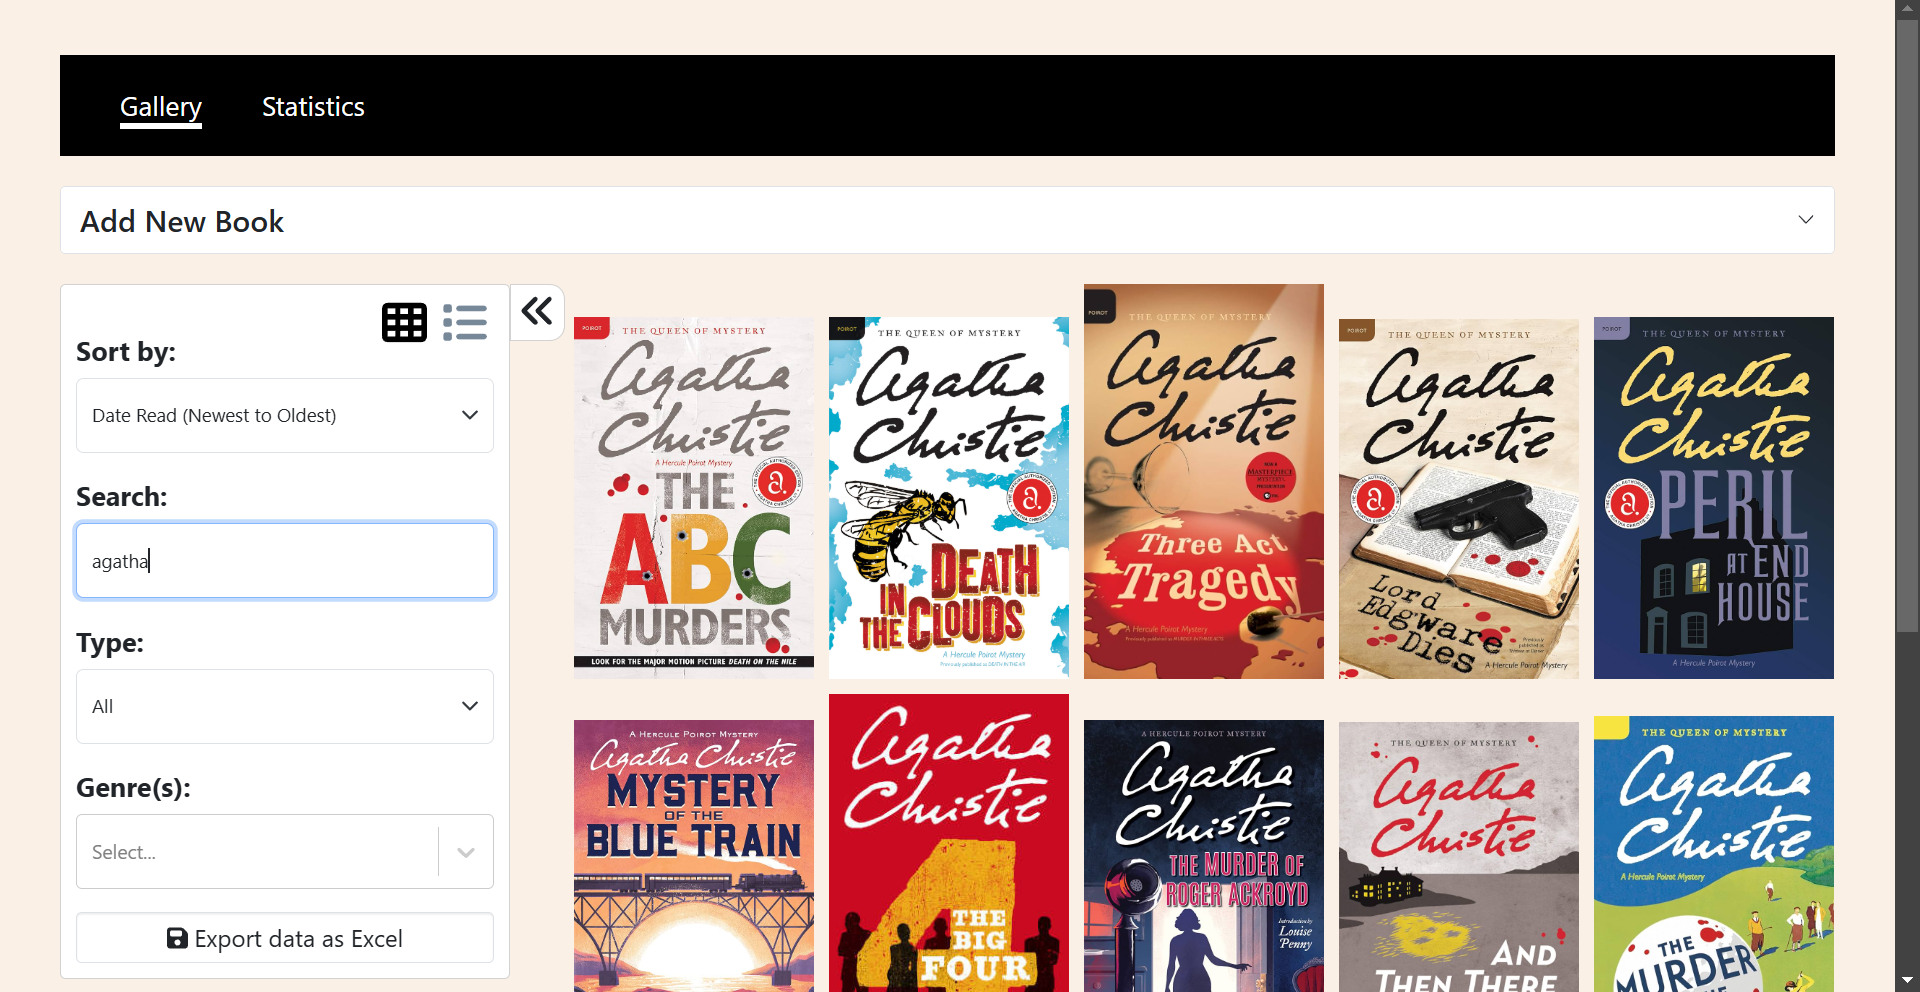
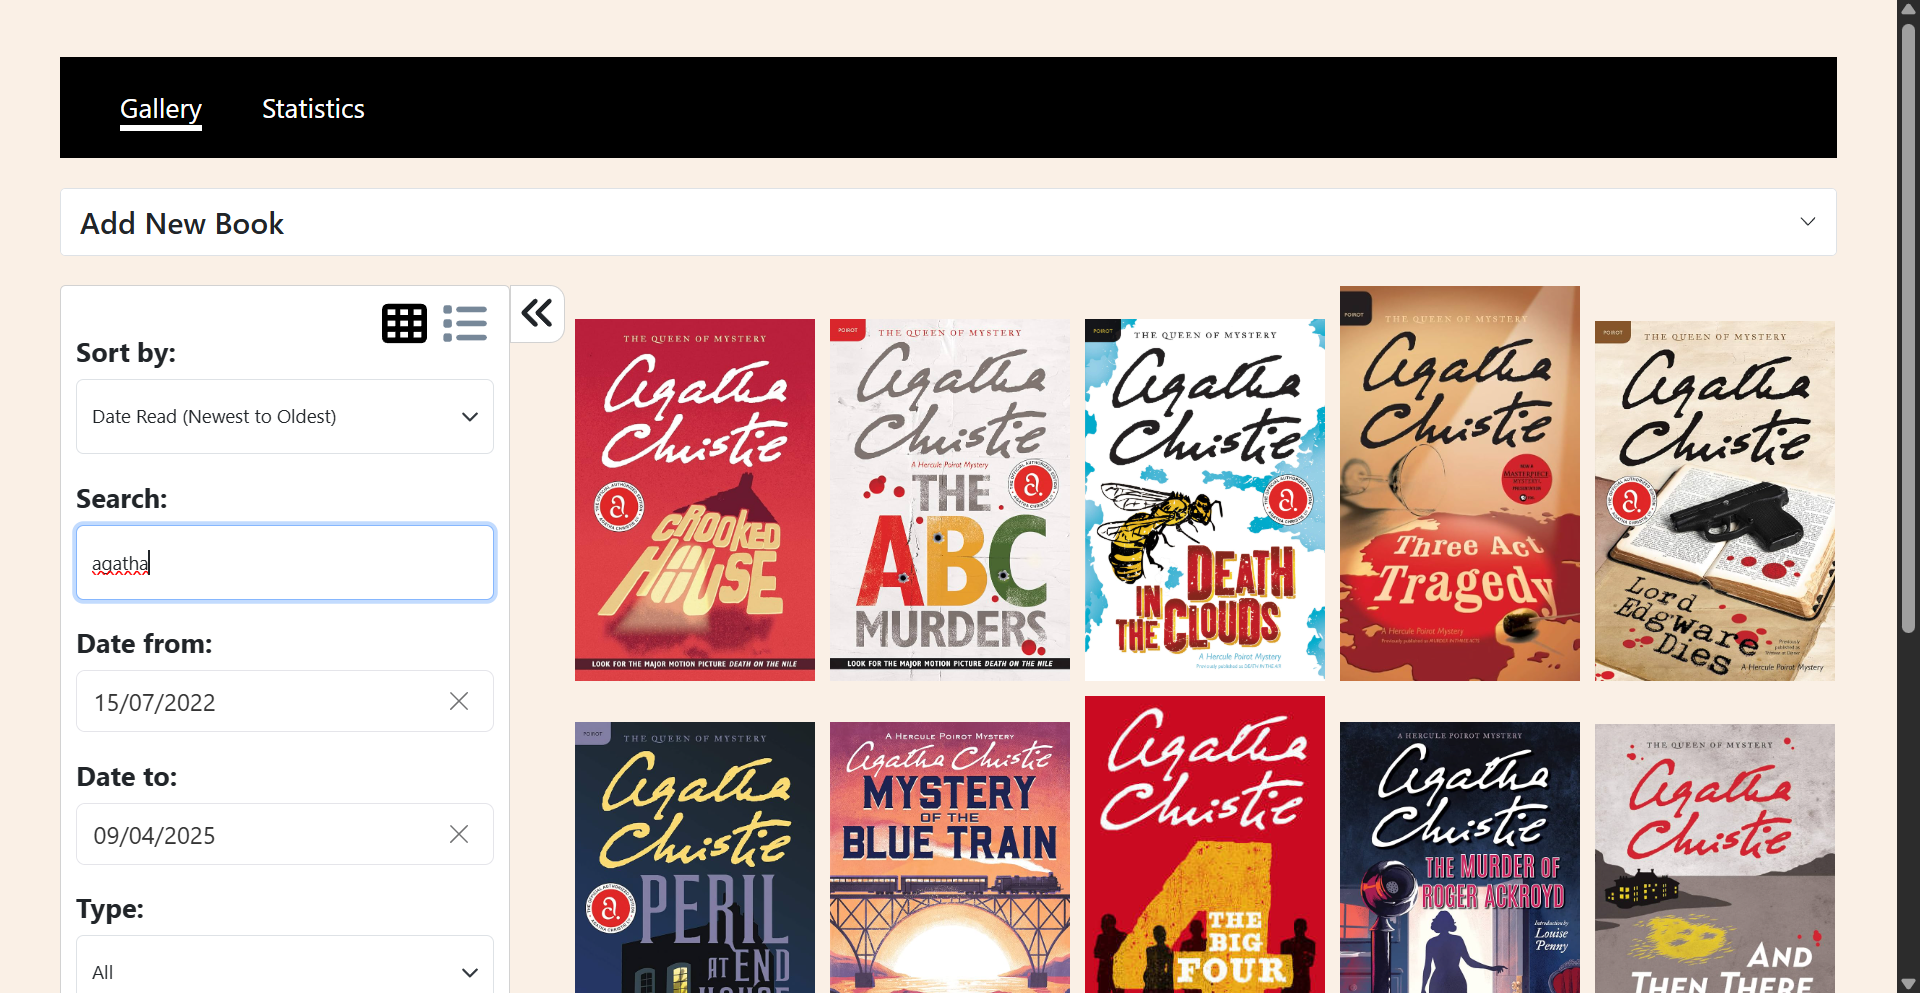
feat: filter by date read

diff --git a/client/src/Gallery.jsx b/client/src/Gallery.jsx
@@ -5,6 +5,9 @@ import {Card, Collapse, Form, Table} from "react-bootstrap";
 import {FontAwesomeIcon} from '@fortawesome/react-fontawesome'
 import {faTh, faList, faAnglesRight, faAnglesLeft, faSave} from "@fortawesome/free-solid-svg-icons"
 import Select from 'react-select'
+import { DatePicker } from 'rsuite';
+
+import 'rsuite/DatePicker/styles/index.css';
 
 import Book from "./components/Book";
 import BookModal from "./components/BookModal";
@@ -22,13 +25,15 @@ function Gallery() {
 		author : "Charles Duhigg",
 		description : "",
 		imageUrl : "1 The Power of Habit.jpg",
-		date : "2024-01-01",
+		date : "2022-07-15",
 		type : "Nonfiction",
 		genres : [],
 		pageCount : 0
 	});
 	const [sortOrder, setSortOrder] = React.useState("2");
 	const [searchTerm, setSearchTerm] = React.useState("");
+	const [filterDateFrom, setFilterDateFrom] = React.useState(new Date("2022-07-15 00:00:00"));
+	const [filterDateTo, setFilterDateTo] = React.useState(new Date());
 	const [filterType, setFilterType] = React.useState("1");
 	const [filterGenres, setFilterGenres] = React.useState([]);
 	const [genres, setGenres] = React.useState([]);
@@ -106,10 +111,18 @@ function Gallery() {
 		}
 	}
 
-	function filterBooks(search, type, genres) {
+	function filterBooks(search, dateFrom, dateTo, type, genres) {
+		if (isNaN(dateFrom) || isNaN(dateTo)) return;
 		setSearchTerm(search);
+		setFilterDateFrom(dateFrom);
+		setFilterDateTo(dateTo);
 		setFilterType(type);
+
 		let filtered = books.filter(book => book.title.toLowerCase().includes(search) || book.author.toLowerCase().includes(search));
+
+		if (dateFrom === null) dateFrom = new Date('2022-07-15 00:00:00');
+		if (dateTo === null) dateTo = new Date();
+		filtered = filtered.filter(book => new Date(book.date) >= dateFrom && new Date(book.date) <= dateTo);
 
 		switch(type) {
 			case "1":
@@ -138,7 +151,7 @@ function Gallery() {
 			return option.value;
 		});
 		setFilterGenres(genres);
-		filterBooks(searchTerm, filterType, genres);
+		filterBooks(searchTerm, filterDateFrom, filterDateTo, filterType, genres);
 	}
 
 	function downloadData() {
@@ -265,16 +278,20 @@ function Gallery() {
 								<Form.Control
 									size="lg" type="text" placeholder="Search..."
 									className="form-input" id="searchBar"
-									onInput={(e)=>filterBooks(e.target.value.toLowerCase(), filterType, filterGenres)}
+									onInput={(e)=>filterBooks(e.target.value.toLowerCase(), filterDateFrom, filterDateTo, filterType, filterGenres)}
 								/>
+								<Form.Label htmlFor="dateFrom">Date from:</Form.Label>
+								<DatePicker id="dateFrom" className="datepicker" size="lg" value={filterDateFrom} format="dd/MM/yyyy" onChange={(date)=>filterBooks(searchTerm, date, filterDateTo, filterType, filterGenres)} />
+								<Form.Label htmlFor="dateTo">Date to:</Form.Label>
+								<DatePicker id="dateTo" className="datepicker" size="lg" value={filterDateTo} format="dd/MM/yyyy" onChange={(date)=>filterBooks(searchTerm, filterDateFrom, date, filterType, filterGenres)} />
 								<Form.Label htmlFor="filterType">Type:</Form.Label>
-									<Form.Select size="lg" className="form-input" id="filterType" name="filterType" defaultValue={1} onChange={(e)=>filterBooks(searchTerm, e.target.value, filterGenres)}>
+									<Form.Select size="lg" className="form-input" id="filterType" name="filterType" defaultValue={1} onChange={(e)=>filterBooks(searchTerm, filterDateFrom, filterDateTo, e.target.value, filterGenres)}>
 									<option value={1}>All</option>
 									<option value={2}>Fiction</option>
 									<option value={3}>Nonfiction</option>
 								</Form.Select>
 								<Form.Label htmlFor="filterGenre">Genre(s):</Form.Label>
-								<Select options={genres} isMulti="true" className="form-input" id="filterGenre" name="filterGenre" onChange={(selectedOptions) => filterBooksByGenres(selectedOptions)} />
+								<Select options={genres} isMulti="true" menuPlacement="auto" minMenuHeight={300} className="form-input" id="filterGenre" name="filterGenre" onChange={(selectedOptions) => filterBooksByGenres(selectedOptions)} />
 								<button id="exportBtn" className="form-control" onClick={downloadData}><FontAwesomeIcon icon={faSave}/> Export data as Excel</button>
 							</Card>
 						</div>

diff --git a/client/src/App.css b/client/src/App.css
@@ -253,3 +253,8 @@ video {
 #exportBtn .svg-inline--fa {
 	height: 1em;
 }
+
+.datepicker {
+	width: 100%;
+	margin-bottom: 15px;
+}

diff --git a/README.md b/README.md
@@ -39,10 +39,13 @@ Clicking the "Search by ISBN" button opens a modal where there is the option to 
 ![Book Retrieved by ISBN Search](demo_img/demo17.png)
 *Book Retrieved by ISBN Search*
 
-A search filter allows for filtering on author and title. The ability to filtering by type (fiction, nonfiction, etc.) and by genre is also present. Sorting is also available based on date read, author name, and title.
+A search filter allows for filtering on author and title. The ability to filtering by date read, by type (fiction, nonfiction, etc.), and by genre is also present. Sorting is also available based on date read, author name, and title.
 
 ![Searching by author and/or title](demo_img/demo4.png)
 *Searching by author and/or title*
+
+![Filtering by date read](demo_img/demo20.png)
+*Filtering by date read
 
 ![Filtering by type](demo_img/demo9.png)
 *Filtering by type*
